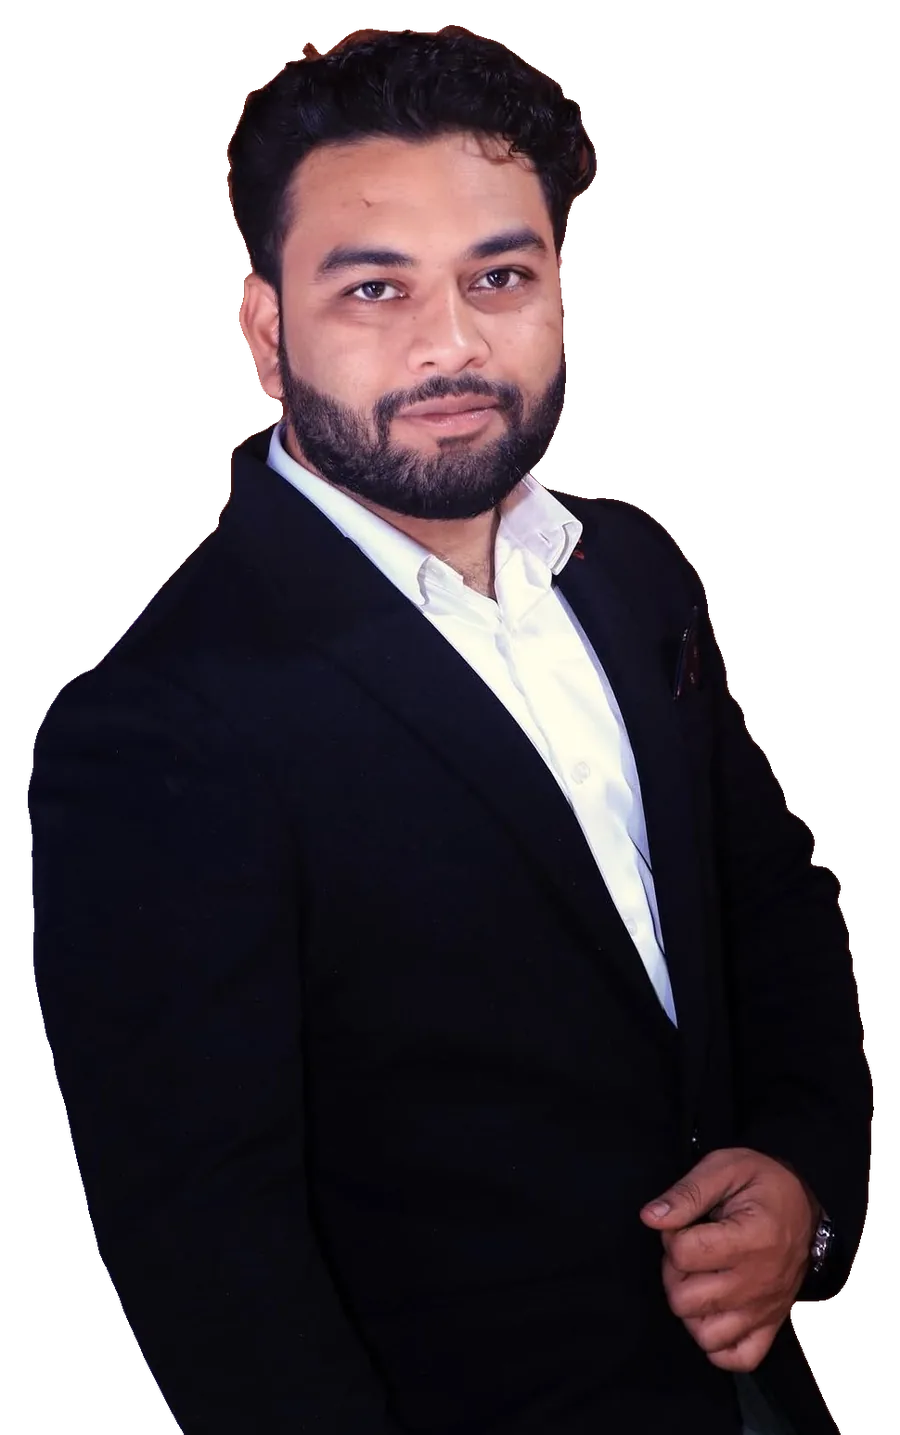
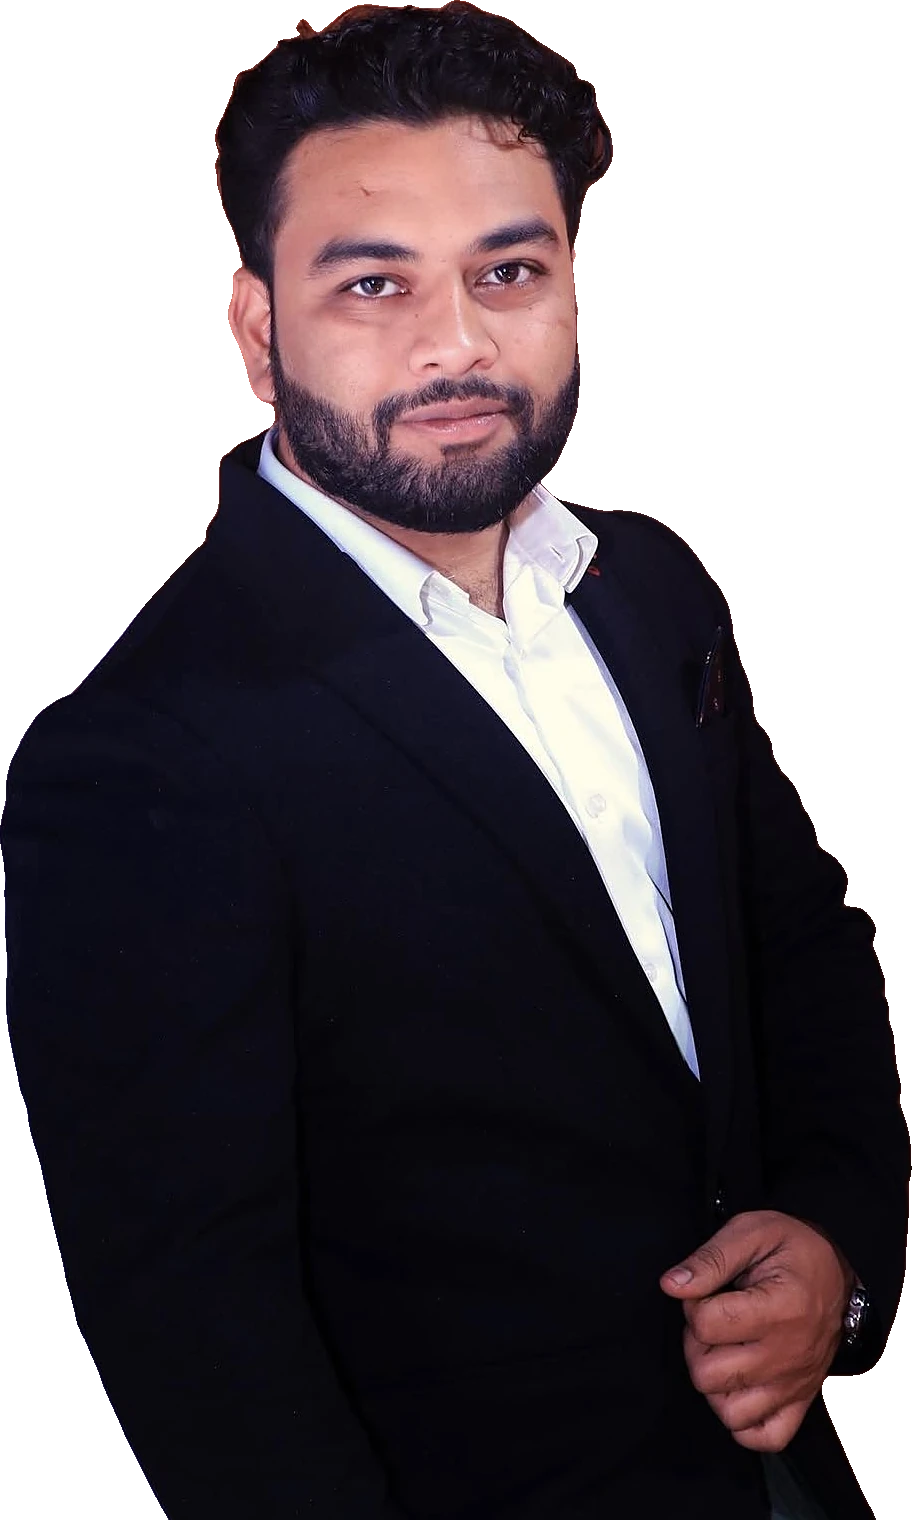
Sharper team photos, photo and text side by side
- Re-exported cut-outs at higher quality, trimmed tight
- Desktop: text left, photo right, no overlap
- Mobile: photo on top, text below

Claude-Session: https://claude.ai/code/session_01F4mFfMXjwSP4WautrNunCi

Changed region(s): [[0.0, 0.0, 1.0, 1.0]]

diff --git a/index.html b/index.html
@@ -188,19 +188,20 @@ footer a{color:#CDBFA6}
 @media (max-width:720px){.audit-grid,.row2{grid-template-columns:1fr}.fbox{padding:22px}}
 
 .team2{display:grid;grid-template-columns:1fr 1fr;gap:24px;margin-top:40px}
-.tm{position:relative;border-radius:28px;overflow:hidden;background:var(--m);height:600px;isolation:isolate}
+.tm{position:relative;border-radius:28px;overflow:hidden;background:var(--m);display:grid;grid-template-columns:44% 56%;height:560px;isolation:isolate}
 .tm.alt{background:#2A1A12}
-.tm .ring{position:absolute;width:560px;height:560px;right:-150px;top:30px;opacity:.15;transition:transform 1.2s ease;z-index:-2}
+.tm .ring{position:absolute;width:460px;height:460px;right:-60px;top:40px;opacity:.13;transition:transform 1.2s ease;z-index:-1}
 .tm .ring svg{width:100%;height:100%}
 .tm:hover .ring{transform:rotate(40deg)}
-.tm img{position:absolute;bottom:0;right:-10px;height:92%;width:auto;z-index:-1;transition:transform .5s ease;transform-origin:bottom right;filter:drop-shadow(0 20px 30px rgba(0,0,0,.35))}
-.tm:hover img{transform:scale(1.03)}
-.tm .info{position:absolute;left:0;bottom:0;top:0;width:60%;display:flex;flex-direction:column;justify-content:flex-end;padding:30px;color:var(--c);background:linear-gradient(to right,rgba(20,10,8,.55),rgba(20,10,8,0))}
-.tm .nm{font-family:'Rozha One',serif;font-size:40px;line-height:1.05}
-.tm .rl{align-self:flex-start;white-space:nowrap;margin:12px 0 14px;font-family:'Space Grotesk',sans-serif;font-size:12px;font-weight:700;letter-spacing:3px;text-transform:uppercase;background:var(--g);color:var(--k);padding:5px 12px;border-radius:20px}
-.tm p{margin:0;font-size:17px;color:#EBDDCA;text-shadow:0 1px 8px rgba(0,0,0,.4)}
-@media (max-width:1100px){.team2{grid-template-columns:1fr}}
-@media (max-width:720px){.tm{height:auto;display:flex;flex-direction:column}.tm .vis{position:relative;height:430px}.tm img{right:50%;transform:translateX(50%);transform-origin:bottom center;height:100%}.tm:hover img{transform:translateX(50%) scale(1.03)}.tm .ring{width:420px;height:420px;right:-40px;top:10px}.tm .info{position:static;width:auto;background:rgba(0,0,0,.25);padding:24px}.tm .nm{font-size:34px}}
+.tm .info{grid-column:1;grid-row:1;display:flex;flex-direction:column;justify-content:flex-end;padding:30px 0 30px 30px;color:var(--c);z-index:2}
+.tm .vis{grid-column:2;grid-row:1;position:relative}
+.tm img{position:absolute;bottom:0;left:50%;transform:translateX(-50%);height:90%;max-width:100%;width:auto;object-fit:contain;object-position:bottom center;transition:transform .5s ease;transform-origin:bottom center;filter:drop-shadow(0 18px 28px rgba(0,0,0,.4))}
+.tm:hover img{transform:translateX(-50%) scale(1.03)}
+.tm .nm{font-family:'Rozha One',serif;font-size:38px;line-height:1.05}
+.tm .rl{align-self:flex-start;margin:12px 0 14px;font-family:'Space Grotesk',sans-serif;font-size:11px;font-weight:700;letter-spacing:2px;text-transform:uppercase;background:var(--g);color:var(--k);padding:6px 11px;border-radius:20px;line-height:1.4}
+.tm p{margin:0;font-size:16px;color:#EBDDCA}
+@media (max-width:1100px){.team2{grid-template-columns:1fr}.tm{height:520px}}
+@media (max-width:720px){.tm{display:flex;flex-direction:column;height:auto}.tm .vis{height:440px}.tm .ring{width:400px;height:400px;right:-60px;top:10px}.tm .info{padding:22px 24px 26px;background:rgba(0,0,0,.22)}.tm .nm{font-size:34px}.tm img{height:100%}}
 @media (prefers-reduced-motion:reduce){.reveal{opacity:1;transform:none}.marquee .track{animation:none}}
 @media (max-width:720px){.proof{grid-template-columns:1fr}.member img{width:96px;height:96px}.marquee span{font-size:24px}}
 @media (max-width:980px){
